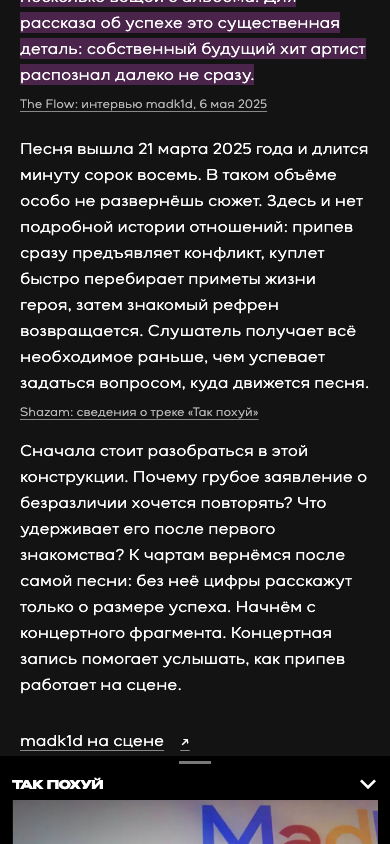
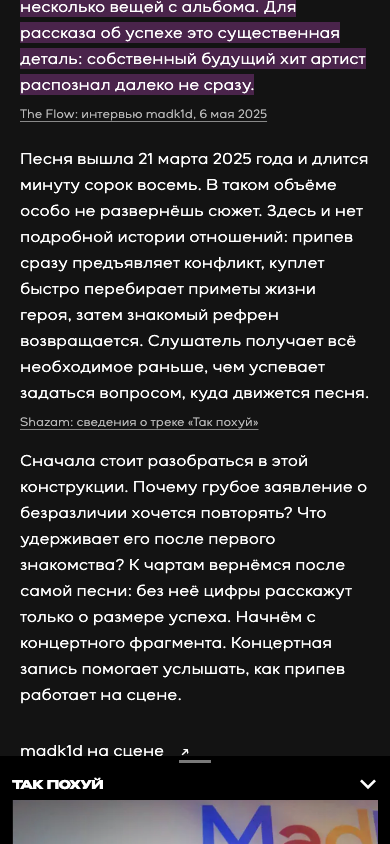
Keep mobile article scrolling native in Android custom tabs

Changed region(s): [[0.0308, 0.0, 0.9538, 0.8318], [0.0308, 0.8626, 0.4308, 0.8934], [0.4615, 0.8626, 0.4923, 0.8934]]

diff --git a/scene-rail.css b/scene-rail.css
@@ -152,6 +152,11 @@
   .has-scene-rail[data-media-page="article"] .story-club { display: none; }
 }
 @media (max-width: 760px) {
+  /* Keep the viewport as the native scroll owner in Android custom tabs.
+     The desktop rail is absent here, so the document needs no overflow clip. */
+  html:has(body[data-media-page="article"]) { overflow-y: auto; }
+  .has-scene-rail[data-media-page="article"] { overflow: visible; }
+  .has-mobile-shell #media-content { touch-action: pan-y pinch-zoom; }
   [data-media-page="article"] .article-context-material { font-size: var(--font-size-body); }
 }
 @media (prefers-reduced-motion: reduce) {

diff --git a/docs/mobile-shell.md b/docs/mobile-shell.md
@@ -4,6 +4,8 @@ Figma: [заглушка 400:358](https://www.figma.com/design/r9ZKy9SrKAYfBTndG
 
 Панель включается до 760 px включительно и заменяет верхнюю шапку статьи. На 761–1199 px остаются шапка и прежние мобильные справки, от 1200 px — правое окно. Это структурные границы; типографических профилей по-прежнему два. Размеры текста и кнопок берутся из `src/design-tokens.css`, включая мобильный UIKIT 388:748–793. Текст и заголовок статьи сохраняются из редакционного источника, а не из старого текста макетов.
 
+На телефоне документ явно сохраняет нативную вертикальную прокрутку: `html` использует `overflow-y: auto`, `body` не обрезает переполнение, основной контент разрешает `pan-y pinch-zoom`. Обрезание документа для выезжающего десктопного окна на телефон не переносится. Поиск, меню и просмотр изображения по-прежнему временно блокируют прокрутку через inline-стиль корневого элемента.
+
 ## Состояния
 
 - Три квадратных FAB справа снизу по Figma 404:664: меню и поиск 32 × 32 px с иконками 24 px, дополнительный материал 56 × 56 px с иконкой 32 px. Между поверхностями 24 px, края выровнены справа; внешние поля — 12 px плюс нижняя safe area. Невидимые области нажатия маленьких кнопок расширены до 44 px без пересечений. Размеры находятся в мобильном профиле `src/design-tokens.css`.
@@ -37,3 +39,5 @@ Figma: [заглушка 400:358](https://www.figma.com/design/r9ZKy9SrKAYfBTndG
 Регрессия прокрутки от 23.10.2026: `node scripts/check-mobile-sheet.mjs` проверяет настоящие touch-события в Chromium: свайпы статьи в обе стороны, свайп с края превью, прямое раскрытие без промежуточного положения, отдельную прокрутку полной карточки и освобождение страницы после меню, поиска и просмотра изображения. Нужен доступный модуль Playwright (либо путь в `PLAYWRIGHT_MODULE`); `MEDIA_TEST_URL` задаёт адрес локального сервера, `CHROMIUM_EXECUTABLE` — необязательный путь к браузеру. Снимки и результаты сохраняются в `deliverables/mobile-sheet-scroll/`.
 
 `node scripts/check-quote-scenes.mjs` с теми же переменными окружения проверяет обе песенные сцены на ширинах 320, 390, 760, 761 и 1440 px: выделение каждой исходной строки, фон, прямую и обратную прокрутку, возврат к разбору, изменение высоты окна, reduced motion и фотографию при недоступном видео. Результаты — `deliverables/mobile-lyric-scenes/`.
+
+`node scripts/check-android-article-scroll.mjs` проверяет начало статьи настоящим Android-вводом `adb shell input swipe`: обложка должна двигаться вместе с документом, а не только скрывать панель браузера. Проверяются оба направления, следующий жест после изменения высоты окна и освобождение прокрутки после поиска/меню. Нужны открытая тестовая страница на Android, ADB и проброшенный DevTools WebView (`ANDROID_CDP_URL`); для нескольких устройств используется `ANDROID_SERIAL`. Последняя проверка: Android-эмулятор, DuckDuckGo 5.299.0, `CustomTabActivity` с нижней адресной строкой, WebView 149.0.7827.5. Результаты — `deliverables/android-article-scroll/`. Исходный сбой из пользовательской записи на этой версии WebView не воспроизвёлся; проверка на исходном устройстве остаётся необходимой.
